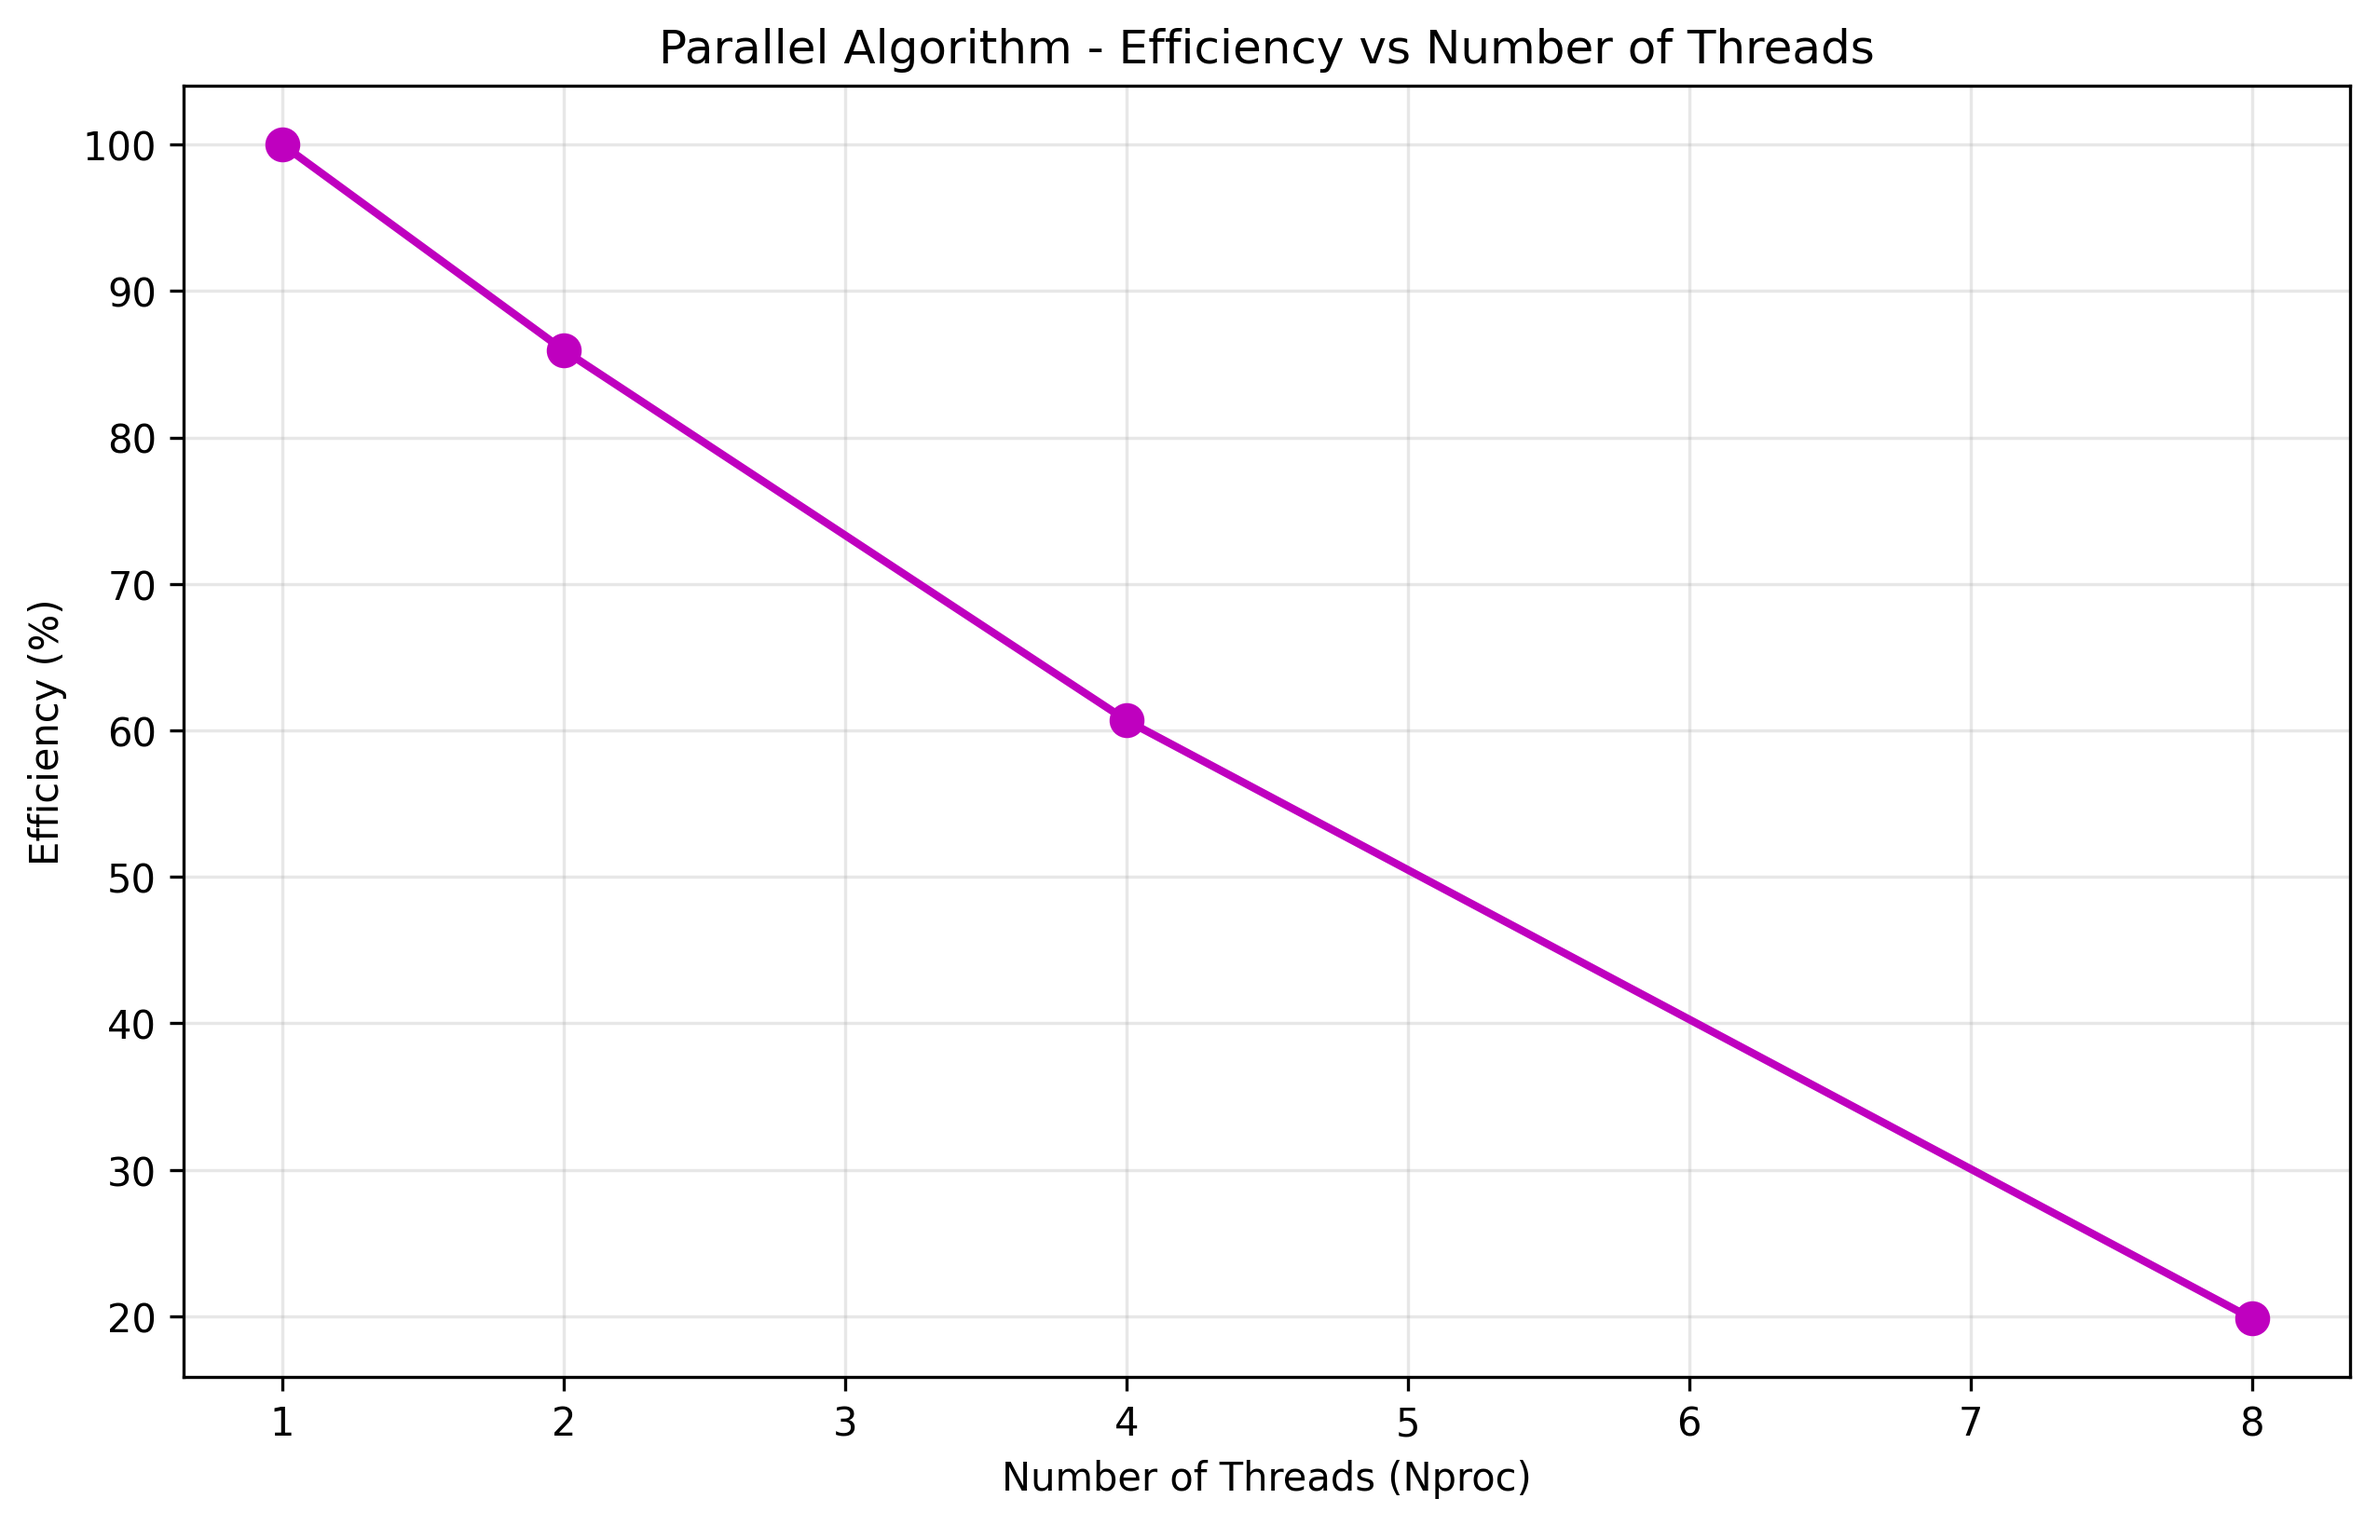
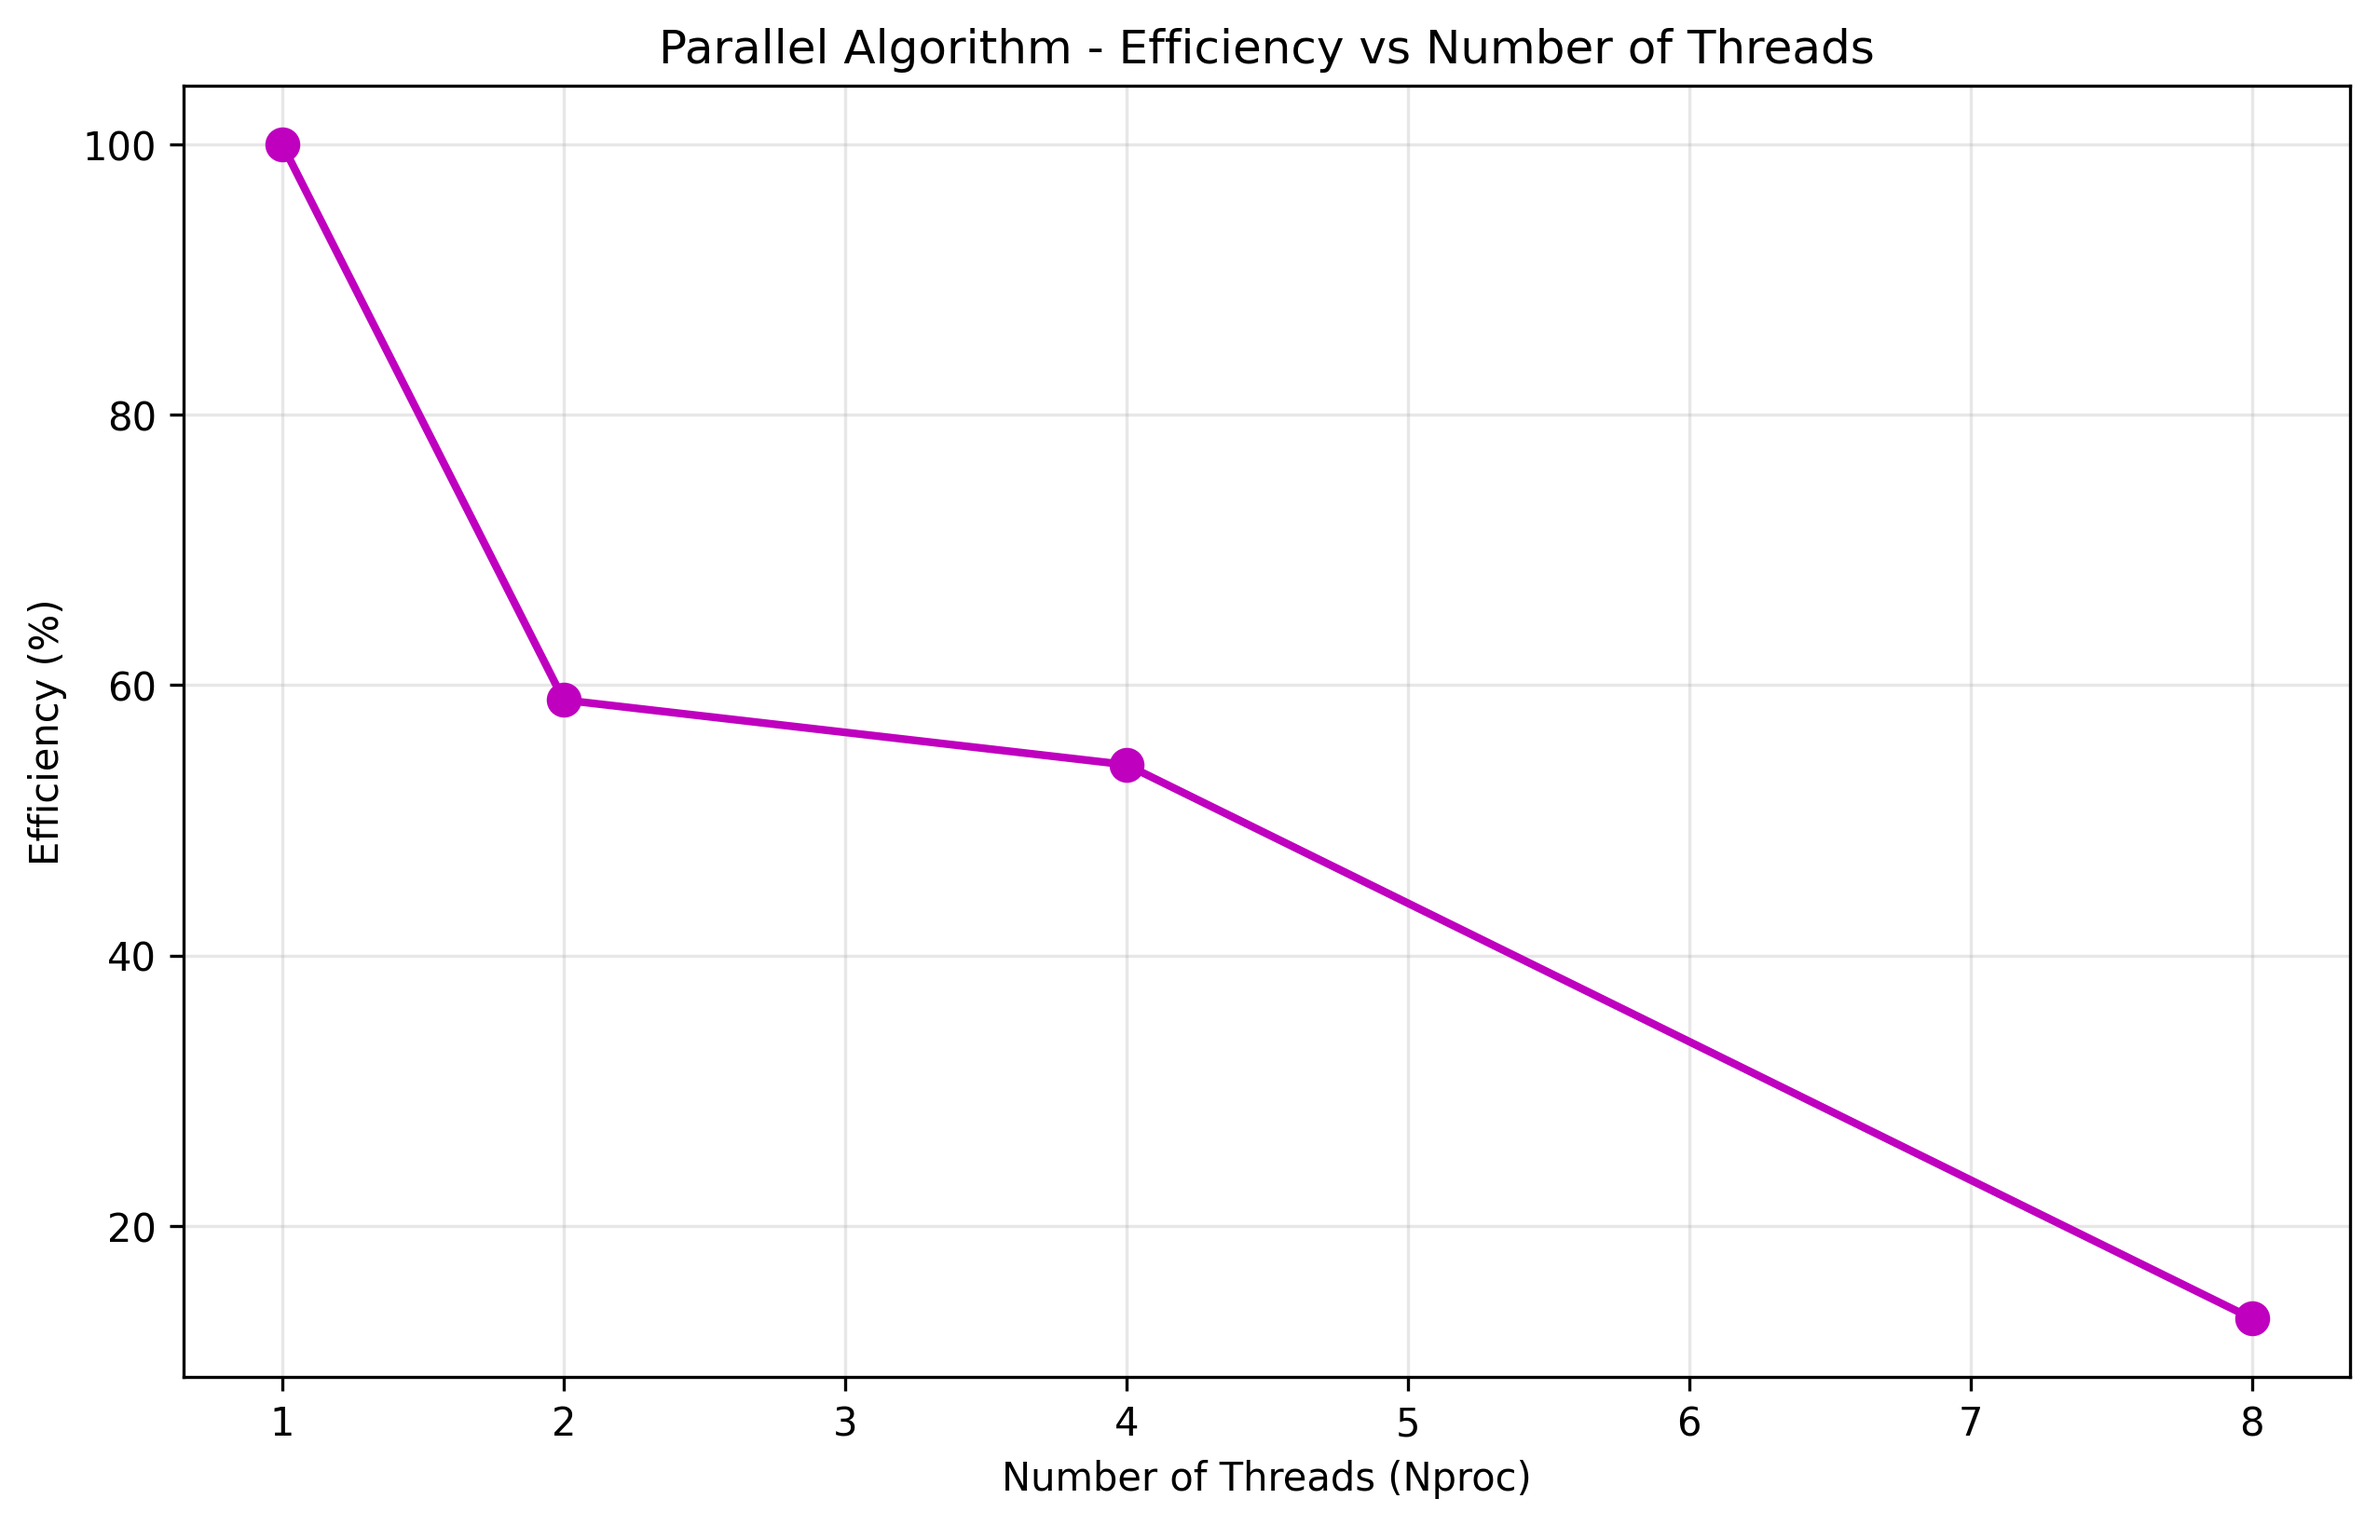
final

diff --git a/simulated_annealing/main_2_exp.cpp b/simulated_annealing/main_2_exp.cpp
@@ -119,7 +119,6 @@ private:
             best_solution = solution->clone();
             temperature = initial_temp;
 
-            // ИСПРАВЛЕНИЕ: Ограничиваем общее количество итераций
             while (iter_no_impr < max_iterations && iter < max_iterations * 2) {
                 auto new_solution = best_solution->clone();
                 mutation->apply(*new_solution);
@@ -154,17 +153,12 @@ private:
 
 // Исследование масштабируемости параллельного алгоритма
 void parallel_scaling_study() {
-    const int num_jobs = 500;
-    const int num_processors = 32;
-    const int num_runs = 3;
+    const int num_jobs = 12800;
+    const int num_processors = 20;
+    const int num_runs = 2;
     
     // Генерация тестовых данных
-    std::vector<uint8_t> job_times(num_jobs);
-    std::mt19937 gen(42);
-    std::uniform_int_distribution<> distrib(1, 100);
-    for (int i = 0; i < num_jobs; ++i) {
-        job_times[i] = distrib(gen);
-    }
+    std::vector<uint8_t> job_times = load_jobs("jobs.csv");
     
     std::vector<int> thread_counts = {1, 2, 4, 8};
     ParallelResearch research;

diff --git a/simulated_annealing/SimulatedAnnealing.h b/simulated_annealing/SimulatedAnnealing.h
@@ -48,7 +48,7 @@ public:
                 if (acceptanceProbability >= static_cast<double>(rand()) / RAND_MAX) {
                     iter_no_impr = 0;
                     best_solution = new_solution;
-                } 
+                }
                 else {
                     iter_no_impr++;
                 }
